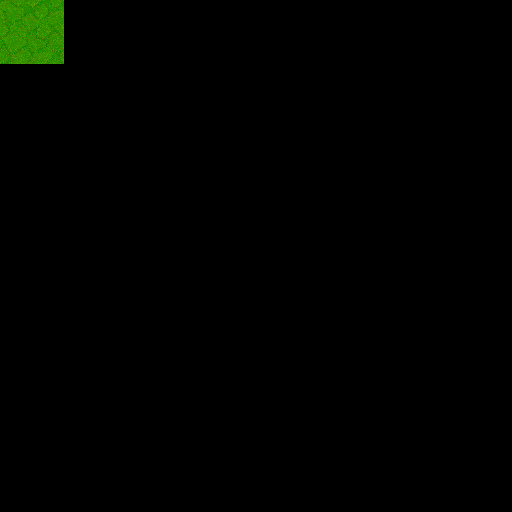
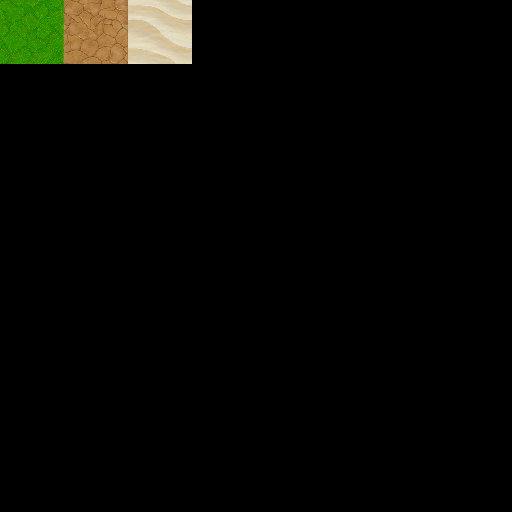
More materials

Changed region(s): [[0.125, 0.0, 0.375, 0.125]]

diff --git a/src/renderers/NaiveRenderer.hpp b/src/renderers/NaiveRenderer.hpp
@@ -19,9 +19,10 @@ public:
                 auto column = std::vector<uint8_t>(length);
 
                 auto c = GetPixelColor((Color *) perlin.data + z * width + x, UNCOMPRESSED_R8G8B8);
-                float l = std::round(((float)(c.r)/255.f) * 10);
+                float l = std::floor(((float) (c.r) / 255.f) * 10);
 
-                std::fill(column.begin() + std::floor(l), column.end(), 1);
+                column[length - 1 - (int) l] = l > (float) length / 4 ? 1 : 3;
+                std::fill(column.begin() + length - l, column.end(), 2);
                 row[z] = column;
             }
 
@@ -30,11 +31,18 @@ public:
 
         UnloadImage(perlin);
 
-        cube.materials[0].maps[MAP_DIFFUSE].texture = atlas["grass"];
+        const std::vector<std::string> textureAliases = {"grass", "dirt", "sand"};
+        for (const auto &it : textureAliases) {
+            Model cube = LoadModelFromMesh(GenMeshCube(1.f, 1.f, 1.f));
+            cube.materials[0].maps[MAP_DIFFUSE].texture = atlas[it];
+            cubes.push_back(cube);
+        }
     }
 
     ~NaiveRenderer() override {
-        UnloadModel(cube);
+        for (auto const &cube : cubes) {
+            UnloadModel(cube);
+        }
     }
 
     void render2D() override {}
@@ -52,7 +60,7 @@ public:
                                 (float) length / 2 - (float) k,
                                 (float) height / 2 - (float) j
                         };
-                        DrawModel(cube, pos, 1.f, WHITE);
+                        DrawModel(cubes[*yIt - 1], pos, 1.f, WHITE);
                         DrawCubeWires(pos, 1.f, 1.f, 1.f, BLACK);
                     }
                 }
@@ -63,5 +71,5 @@ public:
 private:
     const int width, height, length;
     std::vector<std::vector<std::vector<uint8_t>>> model;
-    Model cube = LoadModelFromMesh(GenMeshCube(1.f, 1.f, 1.f));
+    std::vector<Model> cubes;
 };

diff --git a/src/renderers/Renderer.hpp b/src/renderers/Renderer.hpp
@@ -10,6 +10,8 @@ public:
 
 protected:
     TextureAtlas atlas = TextureAtlas("resources/atlas.png", {
-            {"grass", {0, 0, 64, 64}}
+            {"grass", {0, 0, 64, 64}},
+            {"dirt", {64, 0, 64, 64}},
+            {"sand", {128, 0, 64, 64}}
     });
 };
